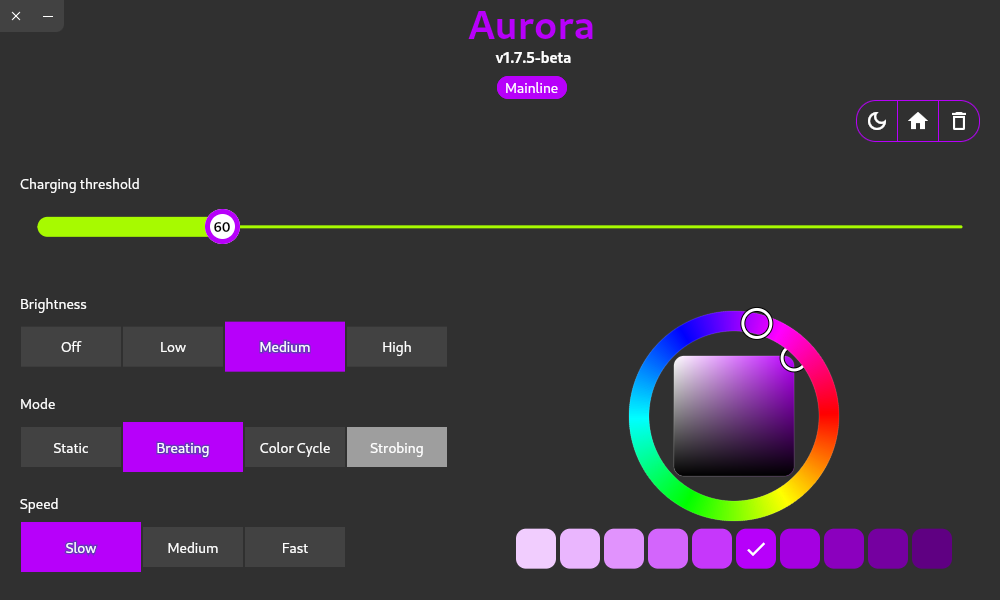
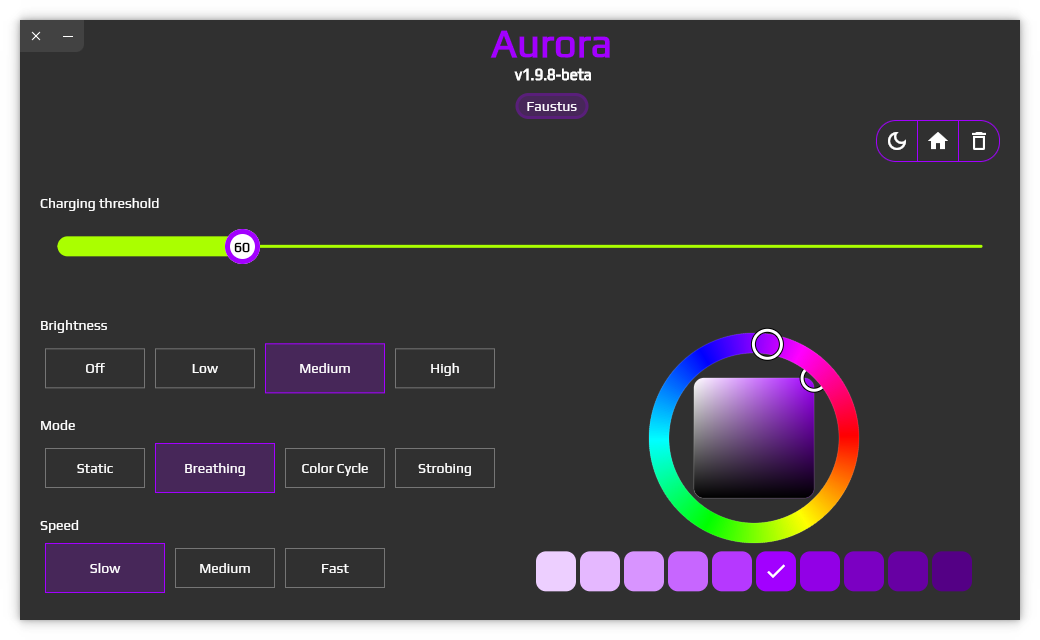
update readme

diff --git a/README.md b/README.md
@@ -3,10 +3,16 @@
 [![MIT License](https://img.shields.io/badge/License-MIT-green.svg)](https://choosealicense.com/licenses/mit/)
 
 
-Aurora is an alternate to Aura Sync for linux to control the keyboard backlight and charging threshold settings. This utility acts as an interface for the Faustus Kernel Module to achieve these functions.
+Aurora is an alternate to Aura Sync for linux to control the keyboard backlight and charging threshold settings.This utility allows you to set battery charging threshold and control keyboard backlight color, brightness and modes.
 
 
-![App Screenshot](https://github.com/legacyO7/Aurora/blob/stable/assets/images/snaps/arsrceen_1.png)
+Aurora provides two modes
+
+- **Mainline** for kernel version 6.1 +
+- **Faustus** for kernel version < 6.1
+
+The modes will be auto-selected depending on the kernel version
+
 
 
 ## Installation
@@ -14,9 +20,24 @@ Aurora is an alternate to Aura Sync for linux to control the keyboard backlight 
 Aurora comes with an AppImage release which can be opened on any common linux distros.
 Find the latest release from [here](https://github.com/legacyO7/Aurora/releases).
 
+
+[PolKit](https://en.wikipedia.org/wiki/Polkit) is required to obtain root privileges
+
+
+
+### Mainline Mode
+
+![App Screenshot](https://github.com/legacyO7/Aurora/blob/stable/assets/images/snaps/arscreen_mainline_1.png)
+This doesn't require any further configurations
+
+### Faustus Mode
+
+![App Screenshot](https://github.com/legacyO7/Aurora/blob/stable/assets/images/snaps/arsrceen_1.png)
+
 #### Prerequisites
 
-- [PolKit](https://en.wikipedia.org/wiki/Polkit) to obtain root privileges `pkexec`
+
+- [PolKit](https://en.wikipedia.org/wiki/Polkit) to obtain root privileges
 - [faustus module](https://github.com/hackbnw/faustus)
 - If the module is not installed, `dkms openssl mokutil git make cmake` are required for installing the module
 
@@ -38,20 +59,16 @@ Secureboot enabled devices need to enroll MOK
 ##### - Manual
 
 - [Install Flutter SDK](https://docs.flutter.dev/get-started/install/linux)
-- Install additional requirements 
-`sudo apt-get install libgtk-3-0 libblkid1 liblzma5`
+- Install additional requirements
+  `libgtk-3-0 libblkid1 liblzma5`
 - Enable linux desktop
-`flutter config --enable-linux-desktop`
+  `flutter config --enable-linux-desktop`
 - Run the project
-`flutter run`
+  `flutter run`
 - Build the project
-`flutter build linux`
+  `flutter build linux`
 
 
-## Limitations
-- Although this utility comes with an AppImage, its functionality is only tested on debian-based distros. Aurora will work out of the box if the prerequisites are satisfied
-- Battery manager will not work on distros without systemd
- 
 
 ## Contributing
 
